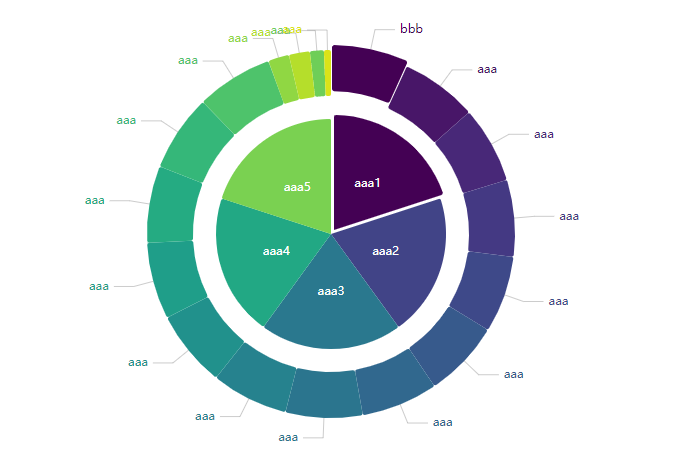
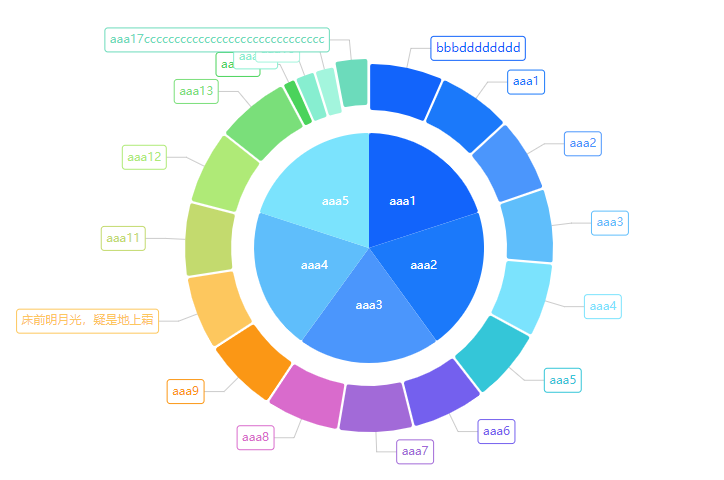
饼图优化

diff --git a/src/app/shared/components/sf-pie/sf-pie.component.ts b/src/app/shared/components/sf-pie/sf-pie.component.ts
@@ -19,30 +19,32 @@ export class SfPieComponent implements OnInit, AfterViewInit {
       {
         radius: ['60%', '80%'],
         center: ['50%', '50%'],
-        padAngle: 0,
+        padAngle: 0.01,
         cornerRadius: 2,
         label: {
-          show: true
+          show: true,
+          borderWidth: 1,
+          background: '#ffffff'
         },
         data: [
-          { name: 'bbb', value: 11, selected: true },
-          { name: 'aaa', value: 11 },
-          { name: 'aaa', value: 11 },
-          { name: 'aaa', value: 11 },
-          { name: 'aaa', value: 11 },
-          { name: 'aaa', value: 11 },
-          { name: 'aaa', value: 11 },
-          { name: 'aaa', value: 11 },
-          { name: 'aaa', value: 11 },
-          { name: 'aaa', value: 11 },
-          { name: 'aaa', value: 11 },
-          { name: 'aaa', value: 11 },
-          { name: 'aaa', value: 11 },
-          { name: 'aaa', value: 11 },
-          { name: 'aaa', value: 2 },
-          { name: 'aaa', value: 3 },
-          { name: 'aaa', value: 3 },
-          { name: 'aaa', value: 1 },
+          { name: 'bbbdddddddd', value: 11 },
+          { name: 'aaa1', value: 11 },
+          { name: 'aaa2', value: 11 },
+          { name: 'aaa3', value: 11 },
+          { name: 'aaa4', value: 11 },
+          { name: 'aaa5', value: 11 },
+          { name: 'aaa6', value: 11 },
+          { name: 'aaa7', value: 11 },
+          { name: 'aaa8', value: 11 },
+          { name: 'aaa9', value: 11 },
+          { name: '床前明月光，疑是地上霜', value: 11 },
+          { name: 'aaa11', value: 11 },
+          { name: 'aaa12', value: 11 },
+          { name: 'aaa13', value: 11 },
+          { name: 'aaa14', value: 2 },
+          { name: 'aaa15', value: 3 },
+          { name: 'aaa16', value: 3 },
+          { name: 'aaa17cccccccccccccccccccccccccccccc', value: 5 },
         ]
       },
       {
@@ -55,7 +57,7 @@ export class SfPieComponent implements OnInit, AfterViewInit {
           position: 'inner'
         },
         data: [
-          { name: 'aaa1', value: 11, selected: true },
+          { name: 'aaa1', value: 11 },
           { name: 'aaa2', value: 11 },
           { name: 'aaa3', value: 11 },
           { name: 'aaa4', value: 11 },
@@ -71,6 +73,8 @@ export class SfPieComponent implements OnInit, AfterViewInit {
 
   private svg: any;
 
+  private selection: any[];
+
   constructor() { }
 
   public ngOnInit() {
@@ -83,9 +87,8 @@ export class SfPieComponent implements OnInit, AfterViewInit {
     this.svgH = Number.parseFloat(wrapDom.style('height'));
 
     this.initSvg(wrapDom);
-    this.option.series.forEach((seriesItem: any) => {
-      this.drawPie(seriesItem);
-    });
+
+    this.drawPie(this.option.series);
   }
 
   private initSvg(dom: any) {
@@ -116,9 +119,12 @@ export class SfPieComponent implements OnInit, AfterViewInit {
 
   // 初始化饼图数据
   private initPieData(data: any[], pieParams: any) {
-    return d3.pie()
+
+    return d3.pie().sort(null)
       .value((d: any) => d.value)(data)
       .map((d: any, index: number) => {
+        d.width = this.getTextWidth(d.data.name, 12);
+        d.id = d.data.name + index;
         d.arc = d.startAngle + (d.endAngle - d.startAngle) / 2;
         d.my = -Math.cos(d.arc) * pieParams.centerR;
         d.mx = Math.sin(d.arc) * pieParams.centerR;
@@ -129,56 +135,125 @@ export class SfPieComponent implements OnInit, AfterViewInit {
   }
 
   // 添加鼠标事件
-  private addMouseEvent(nodes: any, arcPathEnter: (params: any) => {}, arcPath: (params: any) => {}, centerX: number, centerY: number) {
-    nodes.on('mouseenter', function (d: any) {
-      d3.select(this).select('.pie-path')
-        .transition()
-        .duration(300)
-        .attr('d', arcPathEnter(d));
-    }).on('mouseleave', function (d: any) {
-      d3.select(this).select('.pie-path')
-        .transition()
-        .duration(300)
-        .attr('d', arcPath(d));
+  private addMouseEvent(nodes: any, arcPathEnter: any, arcPath: any, centerX: number, centerY: number, isInnerLabel: boolean) {
+    nodes.on('mouseenter', function(d: any, index: number) {
+      if (!isInnerLabel) {
+        this.parentNode.appendChild(this);
+      }
+      d3.select(this).select('.pie-path').transition().duration(300).attr('d', arcPathEnter(d));
+    }).on('mouseleave', function(d: any, index: number) {
+      if (!d.data.selected && index !== nodes.nodes().length - 1) {
+        this.parentNode.insertBefore(this, this.parentNode.childNodes[index]);
+      } else if (!d.data.selected && index === nodes.nodes().length - 1) {
+        this.parentNode.insertBefore(this, this.parentNode.childNodes[index - 1]);
+      }
+
+      d3.select(this).select('.pie-path').transition().duration(300).attr('d', arcPath(d));
     }).on('click', function (d: any, index: number) {
-      d.data.selected = !d.data.selected;
+      nodes.each((d1: any) => d1.data.selected = false);
+      d.data.selected = true;
       const dx = Math.sin(d.arc) * 5;
       const dy = -Math.cos(d.arc) * 5;
-      nodes.transition().duration(300).attr('transform', `translate(${centerX},${centerY})`);
+      d3.selectAll('.pieG').transition().duration(300).attr('transform', `translate(${centerX},${centerY})`);
       d3.select(this).transition().duration(300).attr('transform', `translate(${centerX + dx},${centerY + dy})`);
+      d3.selectAll('.pie-label-g').transition().duration(300).attr('transform', `translate(${centerX},${centerY})`);
 
-      const pieLabelGnodes = d3.select(this.parentNode).selectAll('.pie-label-g');
-      pieLabelGnodes.transition().duration(300).attr('transform', `translate(${centerX},${centerY})`);
-      d3.select(pieLabelGnodes.nodes()[index])
-        .transition()
-        .duration(300)
-        .attr('transform', `translate(${centerX + dx},${centerY + dy})`);
+      if (!isInnerLabel) {
+        this.parentNode.appendChild(this);
+      } else {
+        const pieLabelGnodes = d3.select(this.parentNode).selectAll('.pie-label-g');
+        pieLabelGnodes.transition().duration(300).attr('transform', `translate(${centerX},${centerY})`);
+        d3.select(pieLabelGnodes.nodes()[index])
+          .transition()
+          .duration(300)
+          .attr('transform', `translate(${centerX + dx},${centerY + dy})`);
+      }
     });
   }
 
+  private drawOuterLable(pieNodes: any, pieParams: any, seriesItem: any, colors: string[]) {
+    const borderRadius = (seriesItem.label && seriesItem.label.borderRadius) || 3;
+    const height = (seriesItem.label && seriesItem.label.height) || 24;
+    const width = seriesItem.label && seriesItem.label.width;
+    const isShow = seriesItem.label && seriesItem.label.show;
+    const borderWidth = (seriesItem.label && seriesItem.label.borderWidth) || 1;
+    const background = (seriesItem.label && seriesItem.label.background) || '#ffffff';
+
+    pieNodes.append('path')
+      .attr('d', (d: any) => {
+        const borderCenterX = Math.sin(d.arc) * pieParams.endR;
+        const borderCenterY = -Math.cos(d.arc) * pieParams.endR;
+        const disR = 20;
+        const disX = Math.sin(d.arc) > 0 ? 1 : -1;
+        return `
+              M${borderCenterX},${borderCenterY}
+              L${borderCenterX + disR * Math.sin(d.arc)},${borderCenterY - disR * Math.cos(d.arc)}
+              L${borderCenterX + disR * Math.sin(d.arc) + disX * 20},${borderCenterY - disR * Math.cos(d.arc)}
+               `;
+      })
+      .attr('stroke', '#999').attr('stroke-width', 0.5)
+      .attr('fill', 'none');
+
+    pieNodes.append('rect')
+      .attr('class', 'pie-label-rect')
+      .attr('rx', borderRadius)
+      .attr('ry', borderRadius)
+      .attr('width', (d: any) => width || d.width)
+      .attr('height', height)
+      .attr('stroke', (d: any, index: number) => !isShow ? 'none' : colors[index])
+      .attr('stroke-width', borderWidth)
+      .attr('fill', background)
+      .attr('transform', (d: any) => {
+        const rectW = width || d.width;
+        const borderCenterX = Math.sin(d.arc) * pieParams.endR;
+        const borderCenterY = -Math.cos(d.arc) * pieParams.endR;
+        const disR = 20;
+        const disX = Math.sin(d.arc) > 0 ? 20 : - rectW - 20;
+        return `translate(${borderCenterX + disR * Math.sin(d.arc) + disX},${borderCenterY - disR * Math.cos(d.arc) - 12})`;
+      });
+
+    pieNodes.append('text')
+      .attr('class', 'pie-label')
+      .text((d: any) => d.data.name)
+      .attr('fill', (d: any, index: number) => !isShow ? 'none' : colors[index])
+      .attr('dominant-baseline', 'middle')
+      .attr('text-anchor', (d: any) => Math.sin(d.arc) > 0 ? 'start' : 'end')
+      .style('font-size', 12)
+      .style('pointer-events', 'none')
+      .attr('transform', (d: any) => {
+        const rectW = width || d.width;
+        const borderCenterX = Math.sin(d.arc) * pieParams.endR;
+        const borderCenterY = -Math.cos(d.arc) * pieParams.endR;
+        const disR = 20;
+        const disX = Math.sin(d.arc) > 0 ? 25 : - 25;
+        return `translate(${borderCenterX + disR * Math.sin(d.arc) + disX},${borderCenterY - disR * Math.cos(d.arc)})`;
+      });
+  }
+
   // 画饼图
-  private drawPiePath(
-    wrapNode: any,
-    pieData: any[],
-    arcPathEnter: (params: any) => {},
-    arcPath: (params: any) => {},
-    pieParams: any,
-    colors: string[]
-  ) {
+  private drawPiePath(wrapNode: any, pieData: any[], seriesItem: any, pieParams: any, colors: string[]) {
+    const isInnerLabel = seriesItem.label && seriesItem.label.position === 'inner';
     const centerX = pieParams.centerX;
     const centerY = pieParams.centerY;
+    const arcPath = this.initArcPath(pieParams.startR, pieParams.endR, seriesItem.padAngle, seriesItem.cornerRadius);
+    const arcPathEnter = this.initArcPath(pieParams.startR, pieParams.endR + 8, seriesItem.padAngle, seriesItem.cornerRadius);
     const pieNodes = wrapNode.selectAll('.pieG')
       .data(pieData)
       .enter()
       .append('g')
       .attr('class', 'pieG')
+      .attr('id', (d: any) => 'pieG' + d.id)
       .attr('transform', (d: any) => {
         const dx = Math.sin(d.arc) * 5;
         const dy = -Math.cos(d.arc) * 5;
         return `translate(${centerX + (d.data.selected ? dx : 0)},${centerY + (d.data.selected ? dy : 0)})`;
       });
 
-    this.addMouseEvent(pieNodes, arcPathEnter, arcPath, centerX, centerY);
+    this.addMouseEvent(pieNodes, arcPathEnter, arcPath, centerX, centerY, isInnerLabel);
+
+    if (!isInnerLabel) {
+      this.drawOuterLable(pieNodes, pieParams, seriesItem, colors);
+    }
 
     pieNodes.append('path')
       .attr('class', 'pie-path')
@@ -190,7 +265,7 @@ export class SfPieComponent implements OnInit, AfterViewInit {
   }
 
   // 画label
-  private drawLabel(wrapNode: any, pieData: any[], pieParams: any, seriesItem: any, colors: string[]) {
+  private drawInnerLabel(wrapNode: any, pieData: any[], pieParams: any, seriesItem: any, colors: string[]) {
     const centerX = pieParams.centerX;
     const centerY = pieParams.centerY;
     const textNodes = wrapNode.selectAll('.pie-label-g')
@@ -198,67 +273,45 @@ export class SfPieComponent implements OnInit, AfterViewInit {
       .enter()
       .append('g')
       .attr('class', 'pie-label-g')
+      .attr('id', (d: any) => 'pieLabel' + d.id)
       .attr('transform', (d: any) => {
         const dx = Math.sin(d.arc) * 5;
         const dy = -Math.cos(d.arc) * 5;
         return `translate(${centerX + (d.data.selected ? dx : 0)},${centerY + (d.data.selected ? dy : 0)})`;
       });
 
-    if (seriesItem.label.position === 'inner') {
-      textNodes.append('text')
-        .attr('class', 'pie-label')
-        .text((d: any) => d.data.name)
-        .attr('fill', (d: any, index: number) => seriesItem.label.show === false ? 'none' : '#fff')
-        .attr('dominant-baseline', 'middle')
-        .attr('text-anchor', 'middle')
-        .style('font-size', 12)
-        .style('pointer-events', 'none')
-        .attr('transform', (d: any) => `translate(${d.mx},${d.my})`);
-    } else {
-      textNodes.append('path')
-        .attr('d', (d: any) => {
-          const borderCenterX = Math.sin(d.arc) * pieParams.endR;
-          const borderCenterY = -Math.cos(d.arc) * pieParams.endR;
-          const disR = 20;
-          const disX = Math.sin(d.arc) > 0 ? 1 : -1;
-          return `M${borderCenterX},${borderCenterY}
-                 L${borderCenterX + disR * Math.sin(d.arc)},${borderCenterY - disR * Math.cos(d.arc)}
-                 L${borderCenterX + disR * Math.sin(d.arc) + disX * 20},${borderCenterY - disR * Math.cos(d.arc)}
-                 `;
-        })
-        .attr('stroke', '#999').attr('stroke-width', 0.5)
-        .attr('fill', 'none');
-      textNodes.append('text')
-        .attr('class', 'pie-label')
-        .text((d: any) => d.data.name)
-        .attr('fill', (d: any, index: number) => seriesItem.label.show === false ? 'none' : colors[index])
-        .attr('dominant-baseline', 'middle')
-        .attr('text-anchor', (d: any) => Math.sin(d.arc) > 0 ? 'start' : 'end')
-        .style('font-size', 12)
-        .style('pointer-events', 'none')
-        .attr('transform', (d: any) => {
-          const borderCenterX = Math.sin(d.arc) * pieParams.endR;
-          const borderCenterY = -Math.cos(d.arc) * pieParams.endR;
-          const disR = 20;
-          const disX = Math.sin(d.arc) > 0 ? 1 : -1;
-          return `translate(${borderCenterX + disR * Math.sin(d.arc) + disX * 25},${borderCenterY - disR * Math.cos(d.arc)})`;
-        });
-    }
-
-
+    textNodes.append('text')
+      .attr('class', 'pie-label')
+      .text((d: any) => d.data.name)
+      .attr('fill', (d: any, index: number) => seriesItem.label && seriesItem.label.show === false ? 'none' : '#fff')
+      .attr('dominant-baseline', 'middle')
+      .attr('text-anchor', 'middle')
+      .style('font-size', 12)
+      .style('pointer-events', 'none')
+      .attr('transform', (d: any) => `translate(${d.mx},${d.my})`);
   }
 
-  private drawPie(seriesItem: any) {
-    const colors = seriesItem.data.map((dataItem: any, index: number) => d3.interpolateViridis(index / seriesItem.data.length));
-    console.log(colors);
+  private drawPie(data: any[]) {
+    const that = this;
+    this.svg.append('g')
+      .attr('class', 'main-pies-wrap')
+      .selectAll('.pieGwrap')
+      .data(data)
+      .enter()
+      .append('g')
+      .attr('class', 'pieGwrap')
+      .each(function (d: any) {
+        const nodeG = d3.select(this);
+        const colors = that.option.color;
+        // const colors = d.data.map((dataItem: any, index: number) => d3.interpolateViridis(index / d.data.length));
+        const pieParams = that.getPieParams(d);
 
-    const pieParams = this.getPieParams(seriesItem);
-    const arcPath = this.initArcPath(pieParams.startR, pieParams.endR, seriesItem.padAngle, seriesItem.cornerRadius);
-    const arcPathEnter = this.initArcPath(pieParams.startR, pieParams.endR + 8, seriesItem.padAngle, seriesItem.cornerRadius);
-    const pieData = this.initPieData(seriesItem.data, pieParams);
-    const pieGwrap = this.svg.append('g').attr('class', 'pieGwrap');
-    this.drawPiePath(pieGwrap, pieData, arcPathEnter, arcPath, pieParams, colors);
-    this.drawLabel(pieGwrap, pieData, pieParams, seriesItem, colors);
+        const pieData = that.initPieData(d.data, pieParams);
+        that.drawPiePath(nodeG, pieData, d, pieParams, colors);
+        if (d.label.position === 'inner') {
+          that.drawInnerLabel(nodeG, pieData, pieParams, d, colors);
+        }
+      });
   }
 
   private setRatio(ratio: any) {
@@ -270,6 +323,16 @@ export class SfPieComponent implements OnInit, AfterViewInit {
     } else {
       return 0;
     }
+  }
+
+  private getTextWidth(str: string, fontSize = 14) {
+    const span = d3.select('body').append('span')
+    .style('display', 'inline-block')
+    .style('font-size', fontSize + 'px')
+    .text(str);
+    const spanWidth = Number.parseFloat(span.style('width')) + 10;
+    span.remove();
+    return spanWidth;
   }
 
 }
